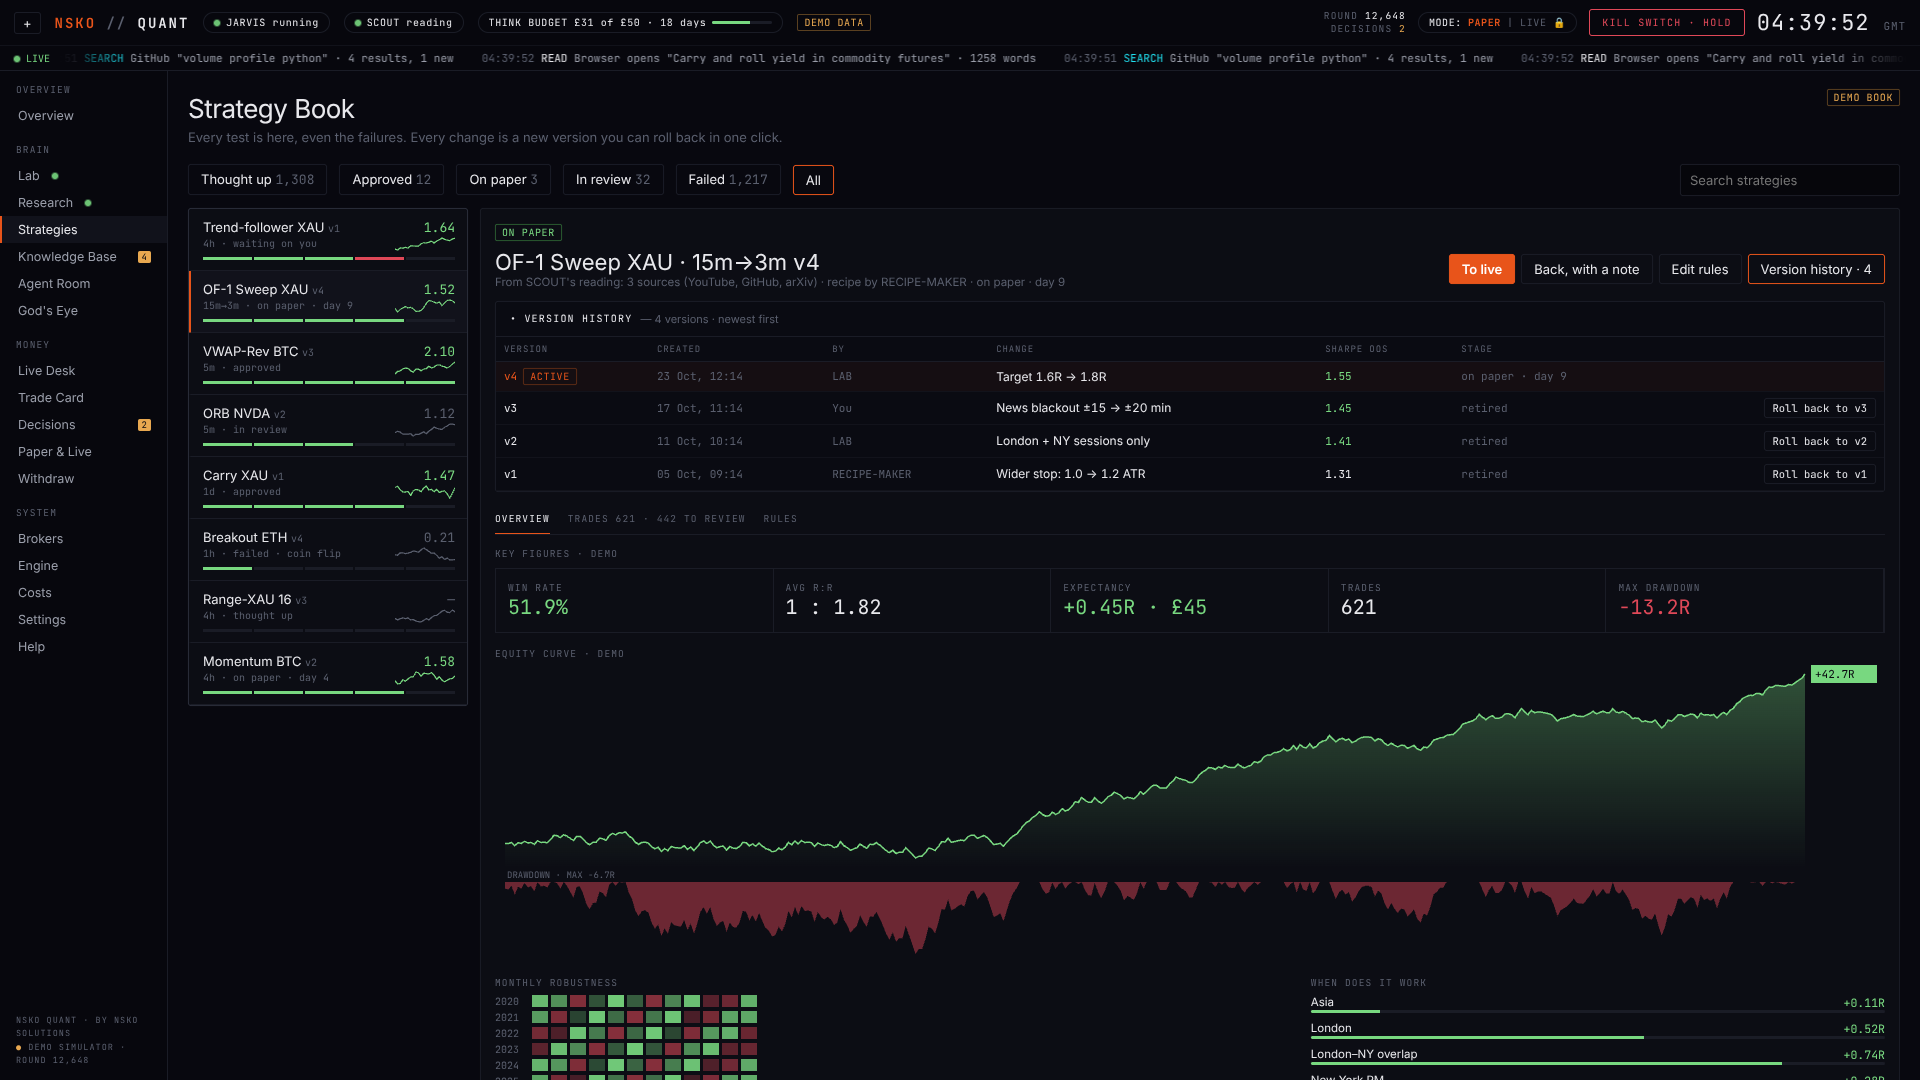
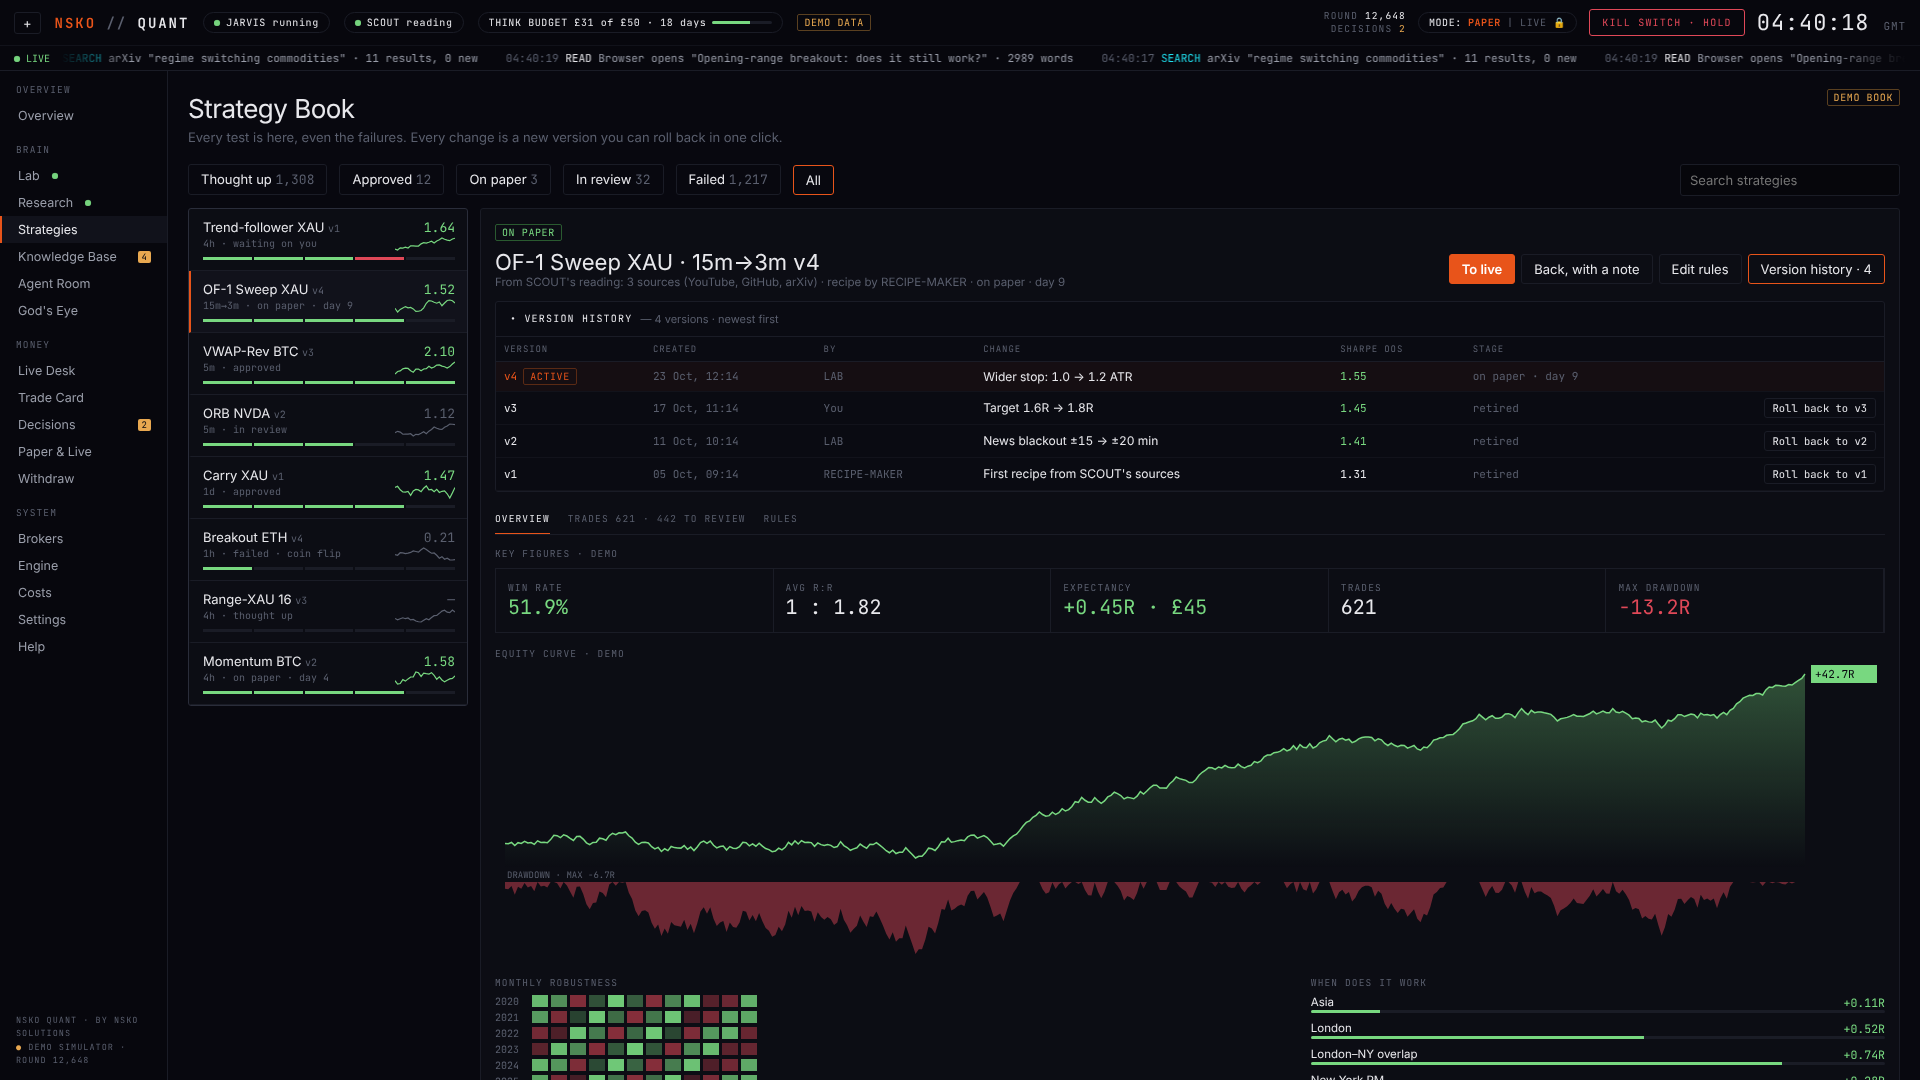
NSKO QUANT: desktop shell (Tauri 2, tray, sidecar, keychain, updater), engine/demo source switch, lock screen, Withdraw page, Cesium God's Eye, CI workflow, Linux build
Claude-Session: https://claude.ai/code/session_01FvjuHZAX8xSNXsKPrf7HEC

diff --git a/nsko-quant/app/src/api.ts b/nsko-quant/app/src/api.ts
@@ -134,7 +134,7 @@ const DS: [string, string, Strategy['status'], string, number][] = [
 const NOTES = ['First recipe from SCOUT\'s sources', 'Wider stop: 1.0 → 1.2 ATR', 'London + NY sessions only', 'News blackout ±15 → ±20 min', 'Target 1.6R → 1.8R']
 export const DEMO_STRATEGIES: Strategy[] = DS.map(([name, tf, status, stage, sh], i) => {
   const n = 1 + (i * 3) % 4
-  const versions = Array.from({ length: n }, (_, k) => ({ version: k + 1, created: new Date(Date.UTC(2026, 9, 2 + i * 3 + k * 6, 9 + k, 14)).toISOString(), note: NOTES[(k + i) % NOTES.length],
+  const versions = Array.from({ length: n }, (_, k) => ({ version: k + 1, created: new Date(Date.UTC(2026, 9, 2 + i * 3 + k * 6, 9 + k, 14)).toISOString(), note: k === 0 ? NOTES[0] : NOTES[1 + (k + i) % (NOTES.length - 1)],
     sharpe_oos: +(sh - (n - 1 - k) * .07 + (k % 2 ? .03 : 0)).toFixed(2), by: k === 0 ? 'RECIPE-MAKER' : k % 2 ? 'LAB' : 'You', active: k === n - 1, stage: k === n - 1 ? stage : 'retired' })).reverse()
   return { id: name.toLowerCase().replace(/[^a-z0-9]+/g, '-'), name, tf, status, stage, sharpe_oos: sh, version: n, versions }
 })

diff --git a/nsko-quant/docs/DESKTOP-NOTES.md b/nsko-quant/docs/DESKTOP-NOTES.md
@@ -1,0 +1,80 @@
+# NSKO QUANT · Stage 2 desktop shell and UI wiring
+
+What was built on 26 Nov 2026, what works, and what is still open.
+
+## 1. Desktop shell (`app/src-tauri`, Tauri 2)
+
+| | |
+|---|---|
+| App id / name / version | `uk.co.nsko.quant` · NSKO QUANT · 0.2.0 |
+| Window | 1600×960, minimum 1280×800, background #08080F, dark theme, centred |
+| Close button | hides the window to the tray. The engine keeps running. |
+| Tray / menu-bar icon | NSKO icon with a status dot: **green** trading, **amber** paused, **red** problem (engine not answering, kill switch on, status `problem/error`). Polls `GET /health` every 4 s from Rust, so it is right even with the window closed. |
+| Tray menu | status line · Open NSKO QUANT · Pause / Resume new trades · Kill switch… (native confirmation) · Quit engine… (native confirmation) |
+| Engine | if nothing answers on 127.0.0.1:8787 the shell starts the bundled sidecar `nsko-quant-engine` (`externalBin`, PyInstaller build) with `--host 127.0.0.1 --port 8787`; its output goes to the shell log. If the OS service already answers, the sidecar is not started. |
+| Keychain | `keyring` crate (macOS Keychain, Windows Credential Manager, Linux Secret Service). Commands `keychain_set`, `keychain_has`, `keychain_delete`; there is deliberately no command that reads a secret back into the webview. Service `uk.co.nsko.quant`, account `broker:<id>:<demo|live>:key` / `:secret`. |
+| Plugins | updater (placeholder feed `https://updates.example.com/nsko-quant/latest.json`, placeholder pubkey), notification (desktop alerts for `alert`, `kill_switch`, `order_filled`), autostart (`--hidden` = start to tray), single-instance (a second launch focuses the window), dialog, opener (broker withdrawal page in the browser), process (relaunch after update), shell (sidecar). |
+| Icons | `assets/brand/nsko-quant-app-icon-1024.svg` → `rsvg-convert` 1024 PNG → `npx tauri icon` (PNG/ICO/ICNS) + three 64 px tray icons with the status dot. |
+| CSP | self + `127.0.0.1:8787` (http/ws) + `tile.openstreetmap.org` + `server.arcgisonline.com` / `services.arcgisonline.com`. |
+
+Shell files: `src-tauri/src/main.rs`, `tauri.conf.json`, `capabilities/default.json`, `Cargo.toml`, `icons/`, `binaries/README.md`.
+
+## 2. Linux bundle: built
+
+`npx tauri build --bundles appimage,deb` succeeded in this container (Ubuntu 24.04, Rust 1.97, after `apt-get install libwebkit2gtk-4.1-dev libayatana-appindicator3-dev librsvg2-dev patchelf build-essential libssl-dev libdbus-1-dev libxdo-dev`):
+
+- `app/src-tauri/target/release/bundle/appimage/NSKO QUANT_0.2.0_amd64.AppImage` · **85.0 MiB** (the AppImage carries WebKitGTK and GStreamer)
+- `app/src-tauri/target/release/bundle/deb/NSKO QUANT_0.2.0_amd64.deb` · **9.8 MiB**
+
+Smoke test: the built binary was started under Xvfb. The 1600×960 window opened, the shell found no engine on :8787, started the sidecar, and the UI fell back to DEMO DATA with a notice (screenshot `docs/screenshots/stage-2/16-desktop-app-linux-xvfb.png`).
+
+**Important:** these local bundles contain a *placeholder* sidecar (a 4-line shell script that exits), because the engine's PyInstaller spec does not exist yet. The real engine goes in through CI. `npm run engine:stub` writes the placeholder on a fresh clone so `tauri build` works without the engine.
+
+The container's disk is capped (about 3 GB free); `npm cache clean` and removing pip/uv caches was needed to fit the Rust build.
+
+## 3. CI (`nsko-quant/.github/workflows/build.yml`)
+
+- **Must be copied to the repo root** as `.github/workflows/nsko-quant-build.yml`: GitHub only runs workflows from the root `.github`. Paths inside already assume the repo root.
+- Triggers: push to `nsko-quant`, tags `quant-v*` (drafts a pre-release), manual run.
+- Job `engine` (4 free runners: ubuntu-22.04, windows-latest, macos-15 arm64, macos-15-intel): Python 3.11, `pip install -r engine/requirements.txt` (or `pip install .` from a pyproject), `pyinstaller engine/nsko-quant-engine.spec` → `dist/nsko-quant-engine[.exe]` (onefile assumed), smoke test `--version`, upload.
+- Job `desktop` (ubuntu-22.04 → .AppImage + .deb; windows-latest → .msi + NSIS .exe; macos-15 → universal .dmg): places the sidecar as `app/src-tauri/binaries/nsko-quant-engine-<target-triple>`, then `tauri-apps/tauri-action@v0`.
+- macOS universal: PyInstaller cannot build one universal2 binary with numpy/pandas, so CI ships both engines as `Contents/Resources/engine/{arm64,x86_64}/` and the sidecar `nsko-quant-engine-universal-apple-darwin` is a 5-line launcher that picks the right one (`uname -m`). CI writes `tauri.macos.conf.json` for that resource mapping.
+- Unsigned. Signing steps are in `docs/DECISIONS.md`. The workflow has not been run yet (no push was made).
+
+## 4. UI wiring (`app/src`)
+
+- **`source.ts`**: Demo data / Live engine switch. Engine mode probes `GET /health`, shows the lock screen, then opens `ws://127.0.0.1:8787/ws` with reconnect and backoff (1 s → 30 s, jittered). If the engine does not answer, or the socket drops 3 times, the desk falls back to the simulator with a notice and keeps retrying; when the engine is back it asks for login again. Desktop app defaults to engine, the browser to demo; the choice is remembered. `?source=demo|engine` overrides it, and `?engine=http://127.0.0.1:PORT` points at another local engine (development and tests only).
+- **`store.ts`**: one `handle(ev)` used by both sources. New event handling: `kill_switch`, `decision_needed` (with `plan_id`), `alert`, `order_filled`, `gods_eye_event`, `market_impact`, and `engine_health.paused/killed`. Switching to the engine clears demo numbers.
+- **`api.ts`**: every endpoint in the brief, plus the assumed extras below. Demo mode → demo data; engine offline → demo data and a notice; engine error → shown as an error.
+- **Chips**: DEMO DATA only when the numbers are simulated; in engine mode an ENGINE chip (CHECKING / CONNECTING / ONLINE / RECONNECTING / OFFLINE / LOCKED). Both show during a fallback.
+- **Onboarding** step 2: name, email, password (twice, 10+ characters), licence key with Check (`GET /licence/check`), optional 6-digit PIN and authenticator 2FA → `POST /account/create` → the recovery code shown once (a "written down" box must be ticked) → 2FA secret, confirmed with a code (`/account/totp/begin|confirm`). The token from create logs the desk in.
+- **Lock screen**: email + password → if the engine answers `totp_required` / `pin_required` (or `{need}`) a second step asks for the 6-digit code. "Use demo data instead" is always there. The token is kept in memory only.
+- **Kill switch** (hold 1.5 s): locks the desk at once, then `POST /kill`; a refusal is shown as a red, sticky alert telling the user to close at the broker. Re-enable asks first, then `POST /kill {action:"release"}`. The tray's kill switch updates the desk.
+- **Trade Card** Manual → Approve calls `POST /trade/approve {plan_id}` (from the latest `decision_needed`).
+- **Settings**: Data source card (Demo / Live engine, with connection state and a fallback banner), risk limits, trading mode, strategy updates and alerts loaded from `GET /settings` and saved with `POST /settings`; Desktop panel (start on boot, check for updates); Desk export/restore with a passphrase.
+- **Brokers**: `GET /brokers`; Connect asks for key/secret/account and demo/live, stores them in the keychain, then `POST /brokers/{id}/connect` with the keychain reference (in a plain browser the key goes to the localhost engine instead, and is never stored by the UI).
+- **Money → Withdraw** (section 9.7): balance strip from `GET /withdraw/helper`; 1 pause new trades → 2 optionally close positions (tick box) → 3 free amount + open the broker's withdrawal page → 4 "I have withdrawn · rescale and resume".
+- **Paper & Live**: checklist from `GET /paperlive/checklist`; Go live posts the typed phrase.
+- **Strategy Book**: `GET /strategies`, To paper / To live (`POST /strategies/{id}/promote`), Version history table with Roll back to vN (`POST /strategies/{id}/rollback`).
+- **God's Eye**: CesiumJS 1.147, no ion (`Ion.defaultAccessToken = undefined`, geocoder off, no ion assets, no Google 3D Tiles, ellipsoid terrain). Basemaps Esri World Imagery / OpenStreetMap / Natural Earth II (bundled, offline). Layers from `gods_eye_event` (`{layer, id, lat, lon, alt_m?, label?, ts?}`) in point collections updated in place; MARKET IMPACT cards and globe markers from `market_impact` (`{id, title, asset, note, tone, lat?, lon?}`). Sensor modes are post-process stages (Cesium night vision; custom thermal palette). The 24 h timeline filters event layers by time; flights, ships and satellites show their latest position. An attribution line lists the basemap and the source of every enabled layer, with "DEMO POSITIONS" in demo mode. ALT-DATA LAB tab kept.
+- **Code-splitting**: Agent Room, God's Eye and Live Desk are `React.lazy` chunks (Live Desk was moved to `pages/LiveDesk.tsx`). Main bundle about 500 kB; Cesium about 4.2 MB, loaded only on God's Eye.
+
+`npx tsc -b && npx vite build` passes.
+
+## 5. Screenshots (`docs/screenshots/stage-2/`, 1920×1080)
+
+01 onboarding account step · 02 recovery code shown once · 03 lock (password) · 04 lock (authenticator) · 05 overview on the engine (mock) · 06 settings, source = Live engine, settings from the engine · 07 withdraw from the engine · 08 settings, source = Demo · 09 engine offline → demo fallback notice · 10 withdraw (demo) · 11 God's Eye, Cesium + Esri imagery · 12 night vision · 13 thermal · 14 OpenStreetMap basemap · 15 Strategy Book version history · 16 the real Linux desktop build running under Xvfb.
+
+Screens 03–07 ran against a throwaway mock of the engine contract (kept outside the repo), because the real engine HTTP server was not ready. `tools/shots-stage2.cjs` re-creates them.
+
+## 6. Gaps and notes for the engine agents
+
+1. **Assumed endpoints / shapes to confirm or add** (also in DECISIONS.md): `POST /withdraw/helper {action}`; `POST /kill {action:"release"}`; `POST /engine/shutdown`; `/health` fields `status, paused, killed, account_exists, uptime, cpu, ram, heartbeat`; login error codes `totp_required` / `pin_required` (FastAPI `detail:{code,msg}` is understood); `POST /account/create` accepts `pin` (2FA set-up uses the engine's existing `totp_begin/confirm` via `/account/totp/begin|confirm`); `GET /licence/check?key=`; `POST /settings {trading_paused}` for pause and `{mode:"live", confirm_phrase}` for go-live; desk export returns `{filename, data_b64}`; `POST /brokers/{id}/connect` takes `{environment, keychain_service, keychain_account, account_id}`; WebSocket accepts `?token=`.
+2. **CORS**: the engine must allow the origins `tauri://localhost`, `http://tauri.localhost` (Windows) and `http://localhost:5173/4173` (dev).
+3. **Tray actions have no session token** (they come from the Rust shell with `X-NSQ-Client: desktop-shell`). The engine should accept `/kill` (safety first) and pause from localhost without a session, or the shell needs a local shared secret file.
+4. The sidecar is started with `--host 127.0.0.1 --port 8787`, and `--version` is used as the CI smoke test; the PyInstaller entry point should accept these.
+5. Not built here: Windows and macOS bundles (need those OSes; CI covers them), code signing, a real update feed, and a run of the CI workflow.
+6. Esri World Imagery and the OSM tile servers need a commercial tile provider or key before sale (DECISIONS.md).
+7. God's Eye ran at only a few fps in headless *software* WebGL (SwiftShader, 1920×1080). On a real GPU Cesium normally holds 60 fps with this many points; check it on Ernest's machines. All 2D canvases are unchanged from Stage 1.
+8. Live Desk, Lab, Research and Agent Room still draw their own demo overlays (Kronos fan, key levels, the agent layout) even in engine mode; they need engine events for those parts in Stage 3.
+9. The JARVIS panel still answers from the demo script in both modes.
